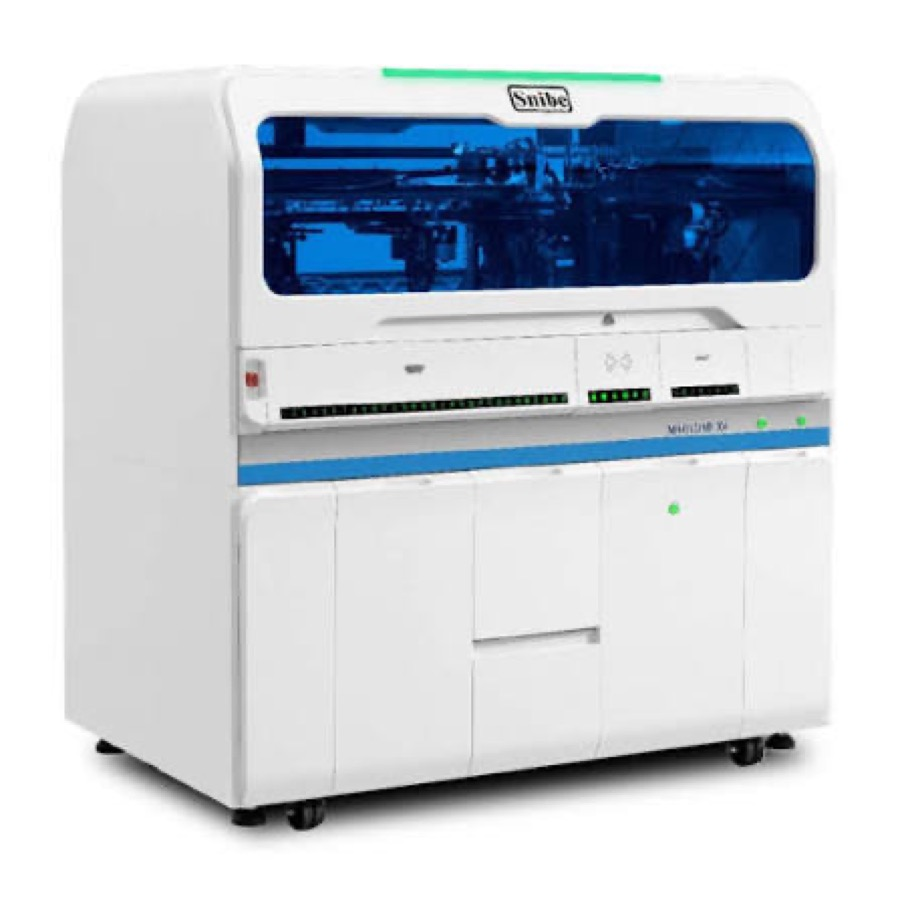
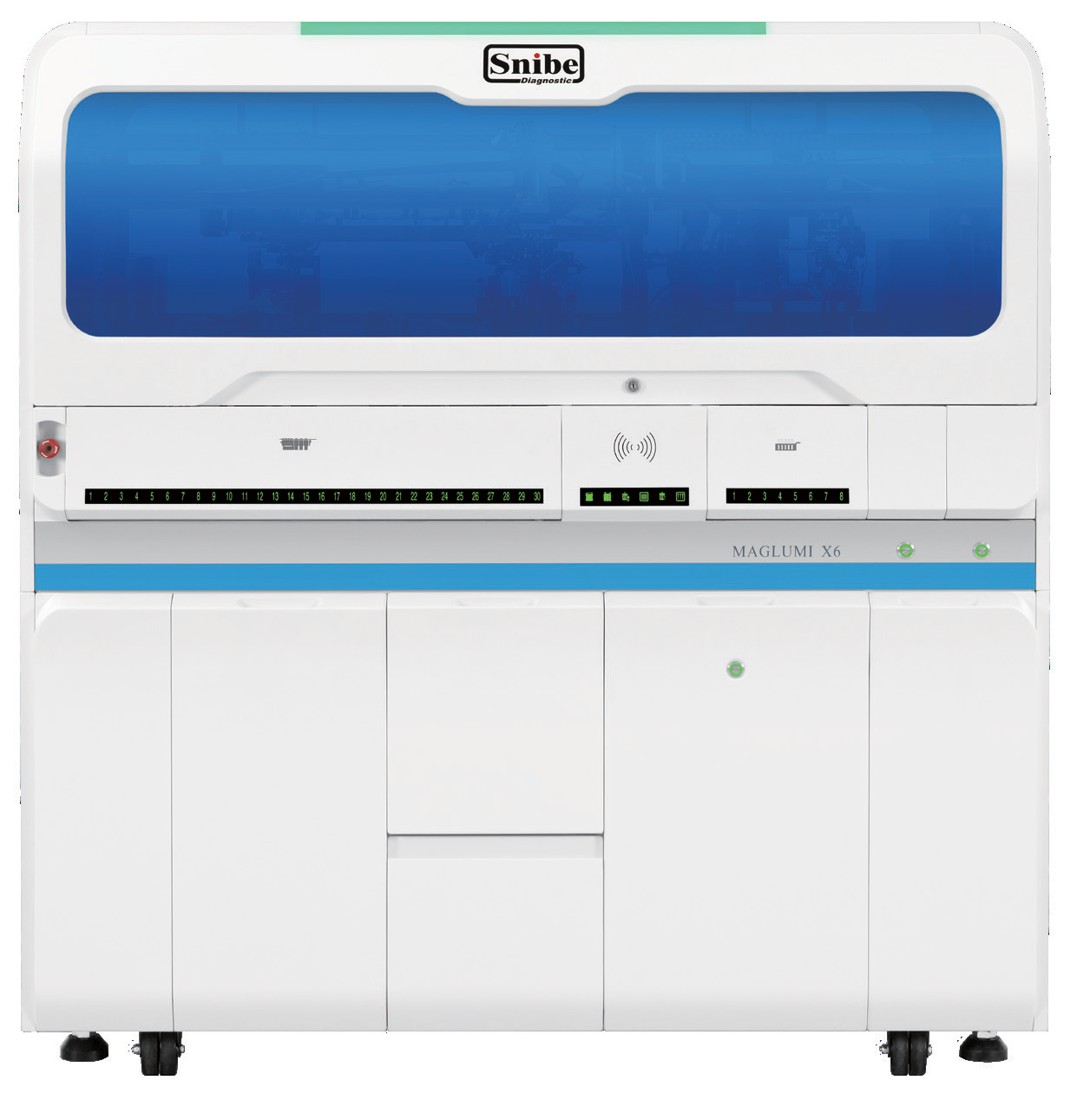
Retoques finales: ANMAT, footers, Austral, IFI/CLIA, SNIBE menú e imágenes mail.

diff --git a/index.html b/index.html
@@ -28,7 +28,7 @@
     opacity:0; visibility:hidden;
     transform: translateX(40px);
     transition: opacity .55s ease, transform .55s ease;
-    padding: 5.5vh 5.5vw 11vh;
+    padding: 5.5vh 5.5vw 13.5vh;
     overflow-y:auto;
   }
   .slide.active{opacity:1; visibility:visible; transform:translateX(0); z-index:2;}
@@ -72,10 +72,11 @@
   .section-divider{display:flex; align-items:center; justify-content:space-between; gap:3rem; width:100%; flex-wrap:wrap;}
   .section-divider .sd-left{flex:1 1 320px;}
   .section-divider .sd-left .eyebrow{font-size:.85rem;}
-  .section-divider .sd-title{
+  .sd-title{
     font-family:'Poppins',sans-serif; font-weight:800; line-height:1.02; margin:.3em 0 0;
     font-size:clamp(2.4rem,5.5vw,4rem); color:var(--ink);
   }
+  .section-divider .sd-title{margin:.3em 0 0;}
   .section-divider .sd-rule{width:64px; height:5px; background:var(--blue); border-radius:999px; margin-top:1.4rem;}
   .section-divider .sd-right{flex:0 0 auto;}
 
@@ -87,6 +88,7 @@
   .brand-stage .brand-logo-slot{
     display:flex; align-items:center; justify-content:center;
   }
+  .brand-stage .brand-logo-slot[style*="flex-direction"]{align-items:center;}
   .brand-stage .brand-logo-slot .logo-badge img{height:70px;}
   @media (max-width:820px){
     .brand-stage{grid-template-columns:1fr; min-height:0;}
@@ -222,7 +224,7 @@
   .area-card{
     background:var(--white); border-radius:14px; overflow:hidden; box-shadow:0 10px 26px rgba(10,40,60,.12);
   }
-  .area-card img{width:100%; height:150px; object-fit:cover; display:block; background:#eef4f7;}
+  .area-card img{width:100%; height:130px; object-fit:cover; display:block; background:#eef4f7;}
   .area-card .area-cap{padding:.65rem .9rem .8rem;}
   .area-card h3{margin:0 0 .15rem; font-family:'Poppins',sans-serif; font-size:.98rem; color:var(--blue-dark);}
   .area-card p{margin:0; font-size:.8rem; color:var(--gray-dark); line-height:1.35;}
@@ -230,20 +232,20 @@
   .events-grid{display:grid; grid-template-columns:repeat(4,1fr); gap:1rem; margin-top:1.5rem;}
   @media (max-width:900px){ .events-grid{grid-template-columns:repeat(2,1fr);} }
   .event-tile{
-    position:relative; border-radius:14px; overflow:hidden; height:236px;
+    position:relative; border-radius:14px; overflow:hidden; height:200px;
     box-shadow:0 10px 26px rgba(10,40,60,.28); background:#0b2a3d;
   }
-  @media (max-width:900px){ .event-tile{height:200px;} }
+  @media (max-width:900px){ .event-tile{height:170px;} }
   .event-tile img{width:100%; height:100%; object-fit:cover; display:block;}
 
-  .gallery-strip{display:flex; gap:.8rem; margin-top:1.6rem; flex-wrap:wrap; align-items:center;}
+  .gallery-strip{display:flex; gap:.65rem; margin-top:1rem; flex-wrap:wrap; align-items:center;}
   .gallery-strip .thumb{
-    width:150px; height:105px; border-radius:12px; overflow:hidden; box-shadow:0 8px 20px rgba(10,40,60,.15);
+    width:130px; height:88px; border-radius:12px; overflow:hidden; box-shadow:0 8px 20px rgba(10,40,60,.15);
     flex-shrink:0;
   }
   .gallery-strip .thumb img{width:100%; height:100%; object-fit:cover;}
   .gallery-strip .iso-badge{
-    margin-left:auto; width:105px; height:105px; border-radius:50%; overflow:hidden;
+    margin-left:auto; width:88px; height:88px; border-radius:50%; overflow:hidden;
     box-shadow:0 10px 28px rgba(10,40,60,.18); background:#fff; flex-shrink:0;
     display:flex; align-items:center; justify-content:center;
   }
@@ -271,7 +273,7 @@
 
   .closing{text-align:center;}
   .closing .closing-logo{
-    display:block; height:56px; width:auto; object-fit:contain;
+    display:block; height:112px; width:auto; object-fit:contain;
     margin:0 auto 1.6rem;
   }
   .partner-row{display:flex; gap:1.4rem; justify-content:center; align-items:center; flex-wrap:wrap; margin-top:2.4rem;}
@@ -327,16 +329,34 @@
   }
   .cover .cover-website{display:none;} /* superseded by slide-foot */
 
-  .logo-badge.snibe img{height:38px;}
-  .logo-badge.sm.snibe img{height:36px;}
-  .partner-row .logo-badge.snibe img{height:40px;}
+  .logo-badge.snibe img{height:56px;}
+  .logo-badge.sm.snibe img{height:34px; width:auto;}
+  .logo-badge.sm:not(.snibe) img{height:30px;}
+  .partner-row .logo-badge.snibe img{height:48px;}
+  .brand-stage .brand-logo-slot .logo-badge.snibe img{height:70px;}
+  .equip-topbar .logo-badge.sm.snibe img{height:36px;}
 
   .mid-brand{display:block; height:42px; width:auto; margin:.55rem 0 1rem;}
-  .anmat-under{display:block; height:52px; width:auto; margin-top:.85rem;}
+  .anmat-under{display:block; height:180px; width:auto; margin-top:.75rem; object-fit:contain;}
+  .building-col{display:flex; flex-direction:column; align-items:center;}
+  .building-col .building-frame{width:100%;}
+  .building-frame img{height:clamp(200px, 38vh, 300px);}
   .building-frame img{
-    width:100%; height:clamp(240px, 48vh, 380px);
+    width:100%; height:clamp(200px, 38vh, 300px);
     object-fit:cover; display:block;
   }
+  .ensayo-photo img{width:100%; height:clamp(180px,32vh,260px); object-fit:cover; display:block;}
+  .tox-duo{display:grid; grid-template-columns:1fr 1fr; gap:2px; background:#e8eef2;}
+  .tox-duo img{width:100%; height:160px; object-fit:cover; display:block;}
+  .menu-grid{display:grid; grid-template-columns:repeat(3,1fr); gap:.55rem .7rem; margin-top:.9rem;}
+  @media (max-width:900px){ .menu-grid{grid-template-columns:repeat(2,1fr);} }
+  .menu-panel{
+    background:#fff; border:1px solid rgba(20,80,120,.1); border-radius:12px;
+    padding:.55rem .7rem; box-shadow:0 4px 14px rgba(10,40,60,.06);
+  }
+  .menu-panel h3{margin:0 0 .25rem; font-family:'Poppins',sans-serif; font-size:.82rem; color:var(--blue-dark);}
+  .menu-panel p{margin:0; font-size:.68rem; line-height:1.35; color:var(--gray-dark);}
+  .closing .closing-logo{height:112px;}
 
   .dense-list{list-style:none; padding:0; margin:.4rem 0 0; display:grid; gap:.22rem;}
   .dense-list li{
@@ -398,7 +418,7 @@
 </head>
 <body>
 
-<div class="slide-counter"><span id="curNum">1</span> / <span id="totalNum">28</span></div>
+<div class="slide-counter"><span id="curNum">1</span> / <span id="totalNum">29</span></div>
 
 <div id="deck">
 
@@ -434,10 +454,12 @@
           <ul class="bullets" style="margin-top:1.2rem;">
             <li>Soporte técnico y bioquímico pre y post-venta en todas las líneas comercializadas.</li>
           </ul>
-          <img class="anmat-under" src="assets/img/logo-anmat.png" alt="ANMAT">
         </div>
-        <div class="photo-frame building-frame">
-          <img src="assets/img/institucional-edificio.jpg" alt="Edificio Laborteknic">
+        <div class="building-col">
+          <div class="photo-frame building-frame">
+            <img src="assets/img/institucional-edificio.jpg" alt="Edificio Laborteknic">
+          </div>
+          <img class="anmat-under" src="assets/img/logo-anmat.png" alt="ANMAT">
         </div>
       </div>
     </div>
@@ -515,7 +537,7 @@
       <span class="eyebrow">Córdoba · Argentina</span>
       <h1 class="title">Nuestro socio comercial</h1>
       <div class="two-col">
-        <div class="photo-frame"><img src="assets/img/australfarma-edificio.jpg" alt="Edificio Austral Farma"></div>
+        <div class="photo-frame building-frame"><img src="assets/img/australfarma-edificio.jpg" alt="Edificio Austral Farma"></div>
         <div>
           <div class="cordoba-brand">
             <img class="cordoba-map" src="assets/img/cordoba-silueta.png" alt="Provincia de Córdoba">
@@ -540,6 +562,7 @@
         <div class="thumb"><img src="assets/img/australfarma-oficina1.jpg" alt="Oficina Austral Farma"></div>
         <div class="thumb"><img src="assets/img/australfarma-oficina2.jpg" alt="Oficina Austral Farma"></div>
         <div class="thumb"><img src="assets/img/australfarma-oficina3.jpg" alt="Oficina Austral Farma"></div>
+        <div class="thumb"><img src="assets/img/australfarma-oficina5.jpg" alt="Oficina Austral Farma"></div>
         <div class="iso-badge"><img src="assets/img/australfarma-isologo.png" alt="Austral Farma"></div>
       </div>
     </div>
@@ -875,7 +898,7 @@
             <div class="assay">Cobre</div>
           </div>
         </div>
-        <div class="photo-frame"><img src="assets/img/biosystems-react-5.jpg" alt="Reactivos BioSystems 5"></div>
+        <div class="photo-frame ensayo-photo"><img src="assets/img/biosystems-react-5.jpg" alt="Reactivos BioSystems 5"></div>
       </div>
     </div>
     <div class="slide-foot">
@@ -891,7 +914,7 @@
         <div class="sd-left">
           <h2 class="sd-title">Autoinmunidad</h2>
           <div class="sd-rule"></div>
-          <p class="lead" style="margin-top:1.3rem; max-width:560px;">Sistemas automáticos para preparación y análisis de improntas para el diagnóstico de enfermedades autoinmunes, improntas y kits para técnicas manuales y kits para ELISA.</p>
+          <p class="lead" style="margin-top:1.3rem; max-width:560px;">Sistemas automáticos para preparación y análisis de improntas por IFI para el diagnóstico de enfermedades autoinmunes, improntas y kits para técnicas manuales y kits para ELISA.</p>
         </div>
         <div class="sd-right">
           <div class="logo-badge"><img src="assets/img/biosystems-logo.png" alt="BioSystems" style="height:64px;"></div>
@@ -909,7 +932,7 @@
     <div class="slide-inner">
       <div class="equip-topbar">
         <div>
-          <span class="eyebrow">Autoinmunidad</span>
+          <span class="eyebrow">Autoinmunidad por IFI</span>
           <h1 class="title" style="font-size:clamp(1.5rem,3vw,2.2rem);">Automatización</h1>
         </div>
         <div class="logo-badge sm"><img src="assets/img/biosystems-logo.png" alt="BioSystems"></div>
@@ -977,7 +1000,7 @@
     <div class="slide-inner">
       <div class="equip-topbar">
         <div>
-          <span class="eyebrow">Autoinmunidad</span>
+          <span class="eyebrow">Autoinmunidad por IFI</span>
           <h1 class="title" style="font-size:clamp(1.5rem,3vw,2.2rem);">Manual</h1>
         </div>
         <div class="logo-badge sm"><img src="assets/img/biosystems-logo.png" alt="BioSystems"></div>
@@ -1070,8 +1093,8 @@
     <div class="slide-inner">
       <div class="equip-topbar">
         <div>
-          <span class="eyebrow">BioSystems · Prevecal</span>
-          <h1 class="title" style="font-size:clamp(1.5rem,3vw,2.3rem);">Control de calidad externo</h1>
+          <span class="eyebrow">Control de calidad externo</span>
+          <h1 class="title" style="font-size:clamp(1.5rem,3vw,2.3rem);">Prevecal</h1>
         </div>
         <div style="display:flex; gap:.6rem; align-items:center;">
           <div class="logo-badge sm"><img src="assets/img/prevecal-logo.png" alt="Prevecal"></div>
@@ -1107,10 +1130,10 @@
   <!-- 20. SNIBE INTRO -->
   <section class="slide theme-paper" data-theme="paper">
     <div class="slide-inner">
-      <span class="eyebrow">Nuestras marcas</span>
-      <h1 class="title">SNIBE</h1>
-      <div class="two-col">
+      <div class="brand-stage">
         <div>
+          <span class="eyebrow">Nuestras marcas</span>
+          <h1 class="title">SNIBE</h1>
           <p class="lead">Shenzhen New Industries Biomedical Engineering Co., Ltd. (Snibe Co., Ltd.) se sitúa en Shenzhen, China, fundada en diciembre de 1995. Snibe es una empresa biomédica especializada en instrumentos de laboratorio clínico y reactivos para diagnóstico in vitro.</p>
           <p class="lead" style="font-size:.95rem; margin-top:.7rem;">Para el área de Autoinmunidad produce autoanalizadores por CLIA en diversas escalas según el volumen diario de procesamiento, con un extenso menú de 260 ensayos diferenciados en paneles por especialidad (Tiroides, Enfermedades Infecciosas, Autoinmunidad, Cardíaco, TORCH, Marcadores Tumorales, Monitoreo Óseo e Inflamatorio, Glucosa y más).</p>
           <div class="stat-row">
@@ -1119,8 +1142,11 @@
             <div class="stat"><div class="num">30 mil+</div><div class="label">unidades globales</div></div>
           </div>
         </div>
-        <div style="text-align:center;">
-          <div class="logo-badge snibe"><img src="assets/img/snibe-logo.png" alt="Snibe" style="height:72px;"></div>
+        <div class="brand-logo-slot" style="flex-direction:column; gap:1.1rem;">
+          <div class="logo-badge snibe"><img src="assets/img/snibe-logo.png" alt="Snibe" style="height:80px;"></div>
+          <div class="photo-frame" style="width:100%; max-width:280px; border-radius:14px; overflow:hidden;">
+            <img src="assets/img/snibe-edificio.jpg" alt="Edificio SNIBE" style="width:100%; height:200px; object-fit:cover; display:block;">
+          </div>
         </div>
       </div>
     </div>
@@ -1135,10 +1161,10 @@
     <div class="slide-inner">
       <div class="equip-topbar">
         <div>
-          <span class="eyebrow">SNIBE</span>
+          <span class="eyebrow">Autoinmunidad por CLIA</span>
           <h1 class="title">MAGLUMI® X3</h1>
         </div>
-        <div class="logo-badge sm snibe"><img src="assets/img/snibe-logo.png" alt="Snibe"></div>
+        <div class="logo-badge sm snibe"><img src="assets/img/snibe-logo.png" alt="Snibe" style="height:40px;"></div>
       </div>
       <div class="two-col equip-layout">
         <div class="equip-media">
@@ -1181,10 +1207,10 @@
     <div class="slide-inner">
       <div class="equip-topbar">
         <div>
-          <span class="eyebrow">SNIBE</span>
+          <span class="eyebrow">Autoinmunidad por CLIA</span>
           <h1 class="title">MAGLUMI® X6</h1>
         </div>
-        <div class="logo-badge sm snibe"><img src="assets/img/snibe-logo.png" alt="Snibe"></div>
+        <div class="logo-badge sm snibe"><img src="assets/img/snibe-logo.png" alt="Snibe" style="height:40px;"></div>
       </div>
       <div class="two-col equip-layout">
         <div class="equip-media">
@@ -1195,6 +1221,8 @@
           <div class="equip-detail"><img src="assets/img/snibe-x6-detalle.jpg" alt="X6 detalle"></div>
           <div class="equip-thumbs">
             <img src="assets/img/snibe-x6-detalle2.jpg" alt="X6 detalle">
+            <img src="assets/img/snibe-x6-new2.jpg" alt="X6">
+            <img src="assets/img/snibe-x6-new3.jpg" alt="X6">
           </div>
         </div>
         <div class="equip-info">
@@ -1212,6 +1240,36 @@
             <li>Pipeteo 10–280 µL con puntas desechables; STAT en todas las muestras.</li>
           </ul>
         </div>
+      </div>
+    </div>
+    <div class="slide-foot">
+      <span class="foot-web">laborteknic.com</span>
+      <img class="foot-logo" src="assets/img/logo-laborteknic.png?v=2" alt="Laborteknic">
+    </div>
+  </section>
+
+
+  <!-- 23. SNIBE MENÚ DE PRUEBAS -->
+  <section class="slide theme-paper" data-theme="paper">
+    <div class="slide-inner">
+      <div class="equip-topbar">
+        <div>
+          <span class="eyebrow">Autoinmunidad por CLIA</span>
+          <h1 class="title" style="font-size:clamp(1.5rem,3vw,2.3rem);">Menú de Pruebas MAGLUMI®</h1>
+        </div>
+        <div class="logo-badge sm snibe"><img src="assets/img/snibe-logo.png" alt="Snibe" style="height:40px;"></div>
+      </div>
+      <p class="lead" style="font-size:.92rem; margin:0;">Amplio menú de pruebas CLIA con 236 parámetros, diferenciados por especialidad.</p>
+      <div class="menu-grid">
+        <div class="menu-panel"><h3>Tiroides</h3><p>TSH (3ª gen.), T4, T3, FT4, FT3, Tg, TGA, Anti-TPO, TRAb, TMA, Rev T3, T-Uptake</p></div>
+        <div class="menu-panel"><h3>Marcadores tumorales</h3><p>AFP, CEA, PSA total/f-PSA, CA 125, CA 15-3, CA 19-9, CYFRA 21-1, NSE, HE4, HER-2, PIVKA-II</p></div>
+        <div class="menu-panel"><h3>Fertilidad</h3><p>FSH, LH, HCG/β-HCG, PRL, Estradiol, Testosterona, Progesterona, AMH, SHBG, Androstenediona</p></div>
+        <div class="menu-panel"><h3>Tamizaje prenatal</h3><p>AFP (tamizaje), Estriol libre, β-HCG libre, PAPP-A, Inhibina A, PlGF, sFlt-1</p></div>
+        <div class="menu-panel"><h3>Autoinmunidad</h3><p>ANA Screen, ENA Screen, Anti-dsDNA, Anti-Sm, Anti-Rib-P, Anti-CCP, RF IgM/IgG</p></div>
+        <div class="menu-panel"><h3>Metabolismo óseo</h3><p>Calcitonina, Osteocalcina, 25-OH Vitamina D, Intact PTH, β-CTx, P1NP total</p></div>
+        <div class="menu-panel"><h3>Enfermedad infecciosa</h3><p>HIV Ab/Ag Combi, Sífilis, Chagas, HTLV I+II, H. pylori IgG</p></div>
+        <div class="menu-panel"><h3>Hepatitis</h3><p>HBsAg, Anti-HBs, HBeAg, Anti-HBe, Anti-HBc</p></div>
+        <div class="menu-panel"><h3>Respiratorio</h3><p>2019-nCoV IgG/IgM, SARS-CoV-2 S-RBD IgG, Anticuerpo neutralizante, SARS-CoV-2 Ag</p></div>
       </div>
     </div>
     <div class="slide-foot">
@@ -1345,7 +1403,10 @@
           </div>
         </div>
         <div class="card">
-          <img src="assets/img/abbott-surestep.jpg" alt="SureStep" style="height:200px;">
+          <div class="tox-duo">
+            <img src="assets/img/abbott-surestep.jpg" alt="SureStep">
+            <img src="assets/img/abbott-surestep-2.jpg" alt="SureStep">
+          </div>
           <div class="card-body">
             <h3>SureStep™</h3>
             <ul class="dense-list" style="margin-top:.4rem;">
@@ -1373,8 +1434,12 @@
         <div class="logo-badge sm"><img src="assets/img/abbott-logo.png" alt="Abbott"></div>
       </div>
       <div class="two-col" style="gap:2rem; align-items:center;">
-        <div class="tox-photos one">
-          <img src="assets/img/abbott-sotoxa.jpg" alt="SoToxa">
+        <div class="tox-photos">
+          <img src="assets/img/abbott-sotoxa-equipo.jpg" alt="SoToxa equipo">
+          <div class="tox-duo">
+            <img src="assets/img/abbott-sotoxa-kit2.jpg" alt="SoToxa kit">
+            <img src="assets/img/abbott-sotoxa.jpg" alt="SoToxa kit">
+          </div>
         </div>
         <div>
           <div class="equip-head">